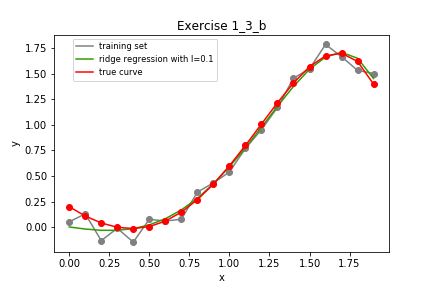
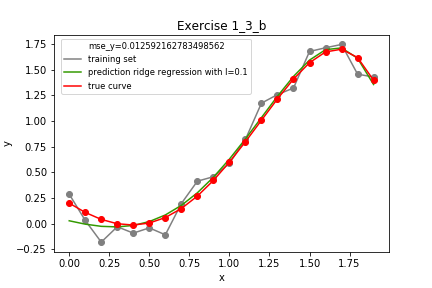
better results
better results

diff --git a/exercise1_3.py b/exercise1_3.py
@@ -57,19 +57,20 @@ def exercise1_3(N, N_test, l_list, mu, sigma_square, theta_0):
         plt.title('Exercise 1_3_' + chr(ord('`') + (i + 1)))
         plt.xlabel('x')
         plt.ylabel('y')
+        plt.plot(0, label='mse_y='+str(mse2), color='white')
         plt.plot(N_points, Y_training, label='training set', color='grey')
         plt.plot(N_points, Y_training, 'o', color='grey')
-        plt.plot(N_points, Y_ridge_regression, label='ridge regression with l=' + str(+l_list[i]), color='#339900')
+        plt.plot(N_points, Y_ridge_regression, label='prediction ridge regression with l=' + str(+l_list[i]), color='#339900')
         plt.plot(N_points, Y_true, label='true curve', color='red')
         plt.plot(N_points, Y_true, 'o', color='red')
     
-        plt.legend(bbox_to_anchor=(0.5, 1.0), fontsize='small')
+        plt.legend(bbox_to_anchor=(0.6, 1.0), fontsize='small')
         print_figure("exercise1_3_" + chr(ord('`') + (i + 1)))
         plt.show()
 
 
 
 
-exercise1_3(20, 1000, [0.000006, 0.1, 100], 0, 0.1, [0.2, -1, 0.9, 0.7, 0, -0.2])
+exercise1_3(20, 1000, [0.000006, 0.1, 0.05], 0, 0.1, [0.2, -1, 0.9, 0.7, 0, -0.2])
 
 

diff --git a/exercise1_1.py b/exercise1_1.py
@@ -54,21 +54,23 @@ def exercise1_1(N, test, mu, sigma_square, theta_0):
     #find mean square error
     mse1 = sum((Y_training - Y_least_squares)**2)/N
     mse2 = sum((Y_training_test - Y_test)**2)/test
+    
+    print(mse1)
+    print(mse2)
 
-    plt.plot(0,label='mse1='+str(mse1), color='white')
-    plt.plot(0,label='mse2='+str(mse2), color='white')
 
     plt.title('Exercise 1_1')
     plt.xlabel('x')
     plt.ylabel('y')
+    plt.plot(0, label='mse_y='+str(mse2), color='white')
     plt.plot(N_points, Y_training, label='training set', color='grey')
     plt.plot(N_points, Y_training, 'o', color='grey')
-    plt.plot(N_points, Y_least_squares, label='least squares regression', color='blue')
+    plt.plot(N_points, Y_least_squares, label='prediction least squares', color='blue')
     plt.plot(N_points, Y_true, label='true curve', color='red')
     plt.plot(N_points, Y_true, 'o', color='red')
 
 
-    plt.legend(bbox_to_anchor=(0.5, 1.0), fontsize='small')
+    plt.legend(bbox_to_anchor=(0.53, 1.0), fontsize='small')
     print_figure("exercise1_1")
     plt.show()
 

diff --git a/exercise1_5.py b/exercise1_5.py
@@ -84,13 +84,12 @@ def exercise1_5(Ns, sigma2_0_list, sigma2_n, theta_0, theta_true):
             plt.title('Exercise 1_5_' + chr(ord('`') + (iterations + 1)))
             plt.xlabel('x')
             plt.ylabel('y')
-            plt.plot(N_points, Y_true, label='true curve', color='red')
-                    
+            plt.plot(0, label='sigma2_0='+str(sigma2_0), color='white')
+            plt.plot(0, label='N='+str(N), color='white')
+            plt.plot(N_points, Y_true, label='true curve', color='red')  
             plt.plot(column(X, 1), mean_y, label='mean curve fitting the data', color='grey')
-            plt.errorbar(column(X, 1), mean_y, yerr=variance_y, fmt='.k')
-            
-            plt.legend(bbox_to_anchor=(0.42, 1.0), fontsize='small')
-        
+            plt.errorbar(column(X, 1), mean_y, yerr=variance_y, fmt='.k')           
+            plt.legend(bbox_to_anchor=(0.47, 1.0), fontsize='small')        
             print_figure("exercise1_5_" + chr(ord('`') + (iterations + 1)))
             
             iterations = iterations + 1

diff --git a/exercise1_6.py b/exercise1_6.py
@@ -73,18 +73,20 @@ def exercise1_6(N, sigma2_n, convergence, theta_0):
         
     X_test.sort()
         
-    Y = numpy.dot(X_test, mu_0)
+    Y_em = numpy.dot(X_test, mu_0)
     
-    mse = sum((numpy.dot(X_test, theta_0) - Y)**2)/N
-    
+    mse = sum((numpy.dot(X_test, theta_0) - Y_em)**2)/N
     print(mse)
-    
+    std = numpy.std([numpy.dot(X_test, theta_0), Y_em], axis = 0)
+
     plt.title('Exercise 1_6')
     plt.xlabel('x')
     plt.ylabel('y')
+    plt.plot(0, label='mse_y='+str(mse), color='white')
     plt.plot(N_points, Y_true, label='true curve', color='red')
-    plt.plot(column(X_test, 1), Y, label='mean curve fitting the data', color='grey')
-    plt.legend(bbox_to_anchor=(0.42, 1.0), fontsize='small')
+    plt.plot(column(X_test, 1), Y_em, label='expectation maximization curve', color='grey')
+    plt.errorbar(column(X_test, 1), Y_em, yerr=std, fmt='.k', label='standard deviation')
+    plt.legend(bbox_to_anchor=(0.55, 1.0), fontsize='small')
     print_figure("exercise1_6")
     plt.show()    
    

diff --git a/exercise1_2.py b/exercise1_2.py
@@ -72,18 +72,13 @@ def exercise1_2(N, test, experiments, mu, sigma_square, theta_0):
     plt.title('Exercise 1_2')
     plt.xlabel('x')
     plt.ylabel('y')
-
-    plt.plot(N_points, Y_avg2, label='average Y 2nd degree pol', color='#000099')
+    plt.plot(N_points, Y_avg2, label='mean Y 2nd degree pol', color='#000099')
     plt.errorbar(N_points, Y_avg2, yerr=Y_var2, fmt='.k', label='standard deviation from the mean')
-
-    plt.plot(N_points, Y_avg10, label='average Y 10th degree pol', color='#005800')
+    plt.plot(N_points, Y_avg10, label='mean Y 10th degree pol', color='#005800')
     plt.errorbar(N_points, Y_avg10, yerr=Y_var10, fmt='.k')
-
-    plt.plot(N_points, Y_true, label='true curve', color='red')
+    plt.plot(N_points, Y_true, 'o', label='true curve points', color='red')
     plt.plot(N_points, Y_true, 'o', color='red')
-
- 
-    plt.legend(bbox_to_anchor=(0.5, 1.0), fontsize='small')
+    plt.legend(bbox_to_anchor=(0.55, 1.0), fontsize='small')
     print_figure("exercise1_2")
     plt.show()
 

diff --git a/exercise1_4.py b/exercise1_4.py
@@ -78,10 +78,11 @@ def exercise1_4(N, sigma2_0, sigma2_n_list, theta_0):
         plt.title('Exercise 1_4_' + chr(ord('`') + (i + 1)))
         plt.xlabel('x')
         plt.ylabel('y')
+        plt.plot(0, label='sigma2_n='+str(sigma2_n), color='white')
         plt.plot(N_points, Y_true, label='true curve', color='red')
         plt.plot(column(X, 1), mean_y, label='mean curve fitting the data', color='grey')
         plt.errorbar(column(X, 1), mean_y, yerr=variance_y, fmt='.k')
-        plt.legend(bbox_to_anchor=(0.42, 1.0), fontsize='small')
+        plt.legend(bbox_to_anchor=(0.47, 1.0), fontsize='small')
         print_figure("exercise1_4_" + chr(ord('`') + (i + 1)))
         plt.show()
     
